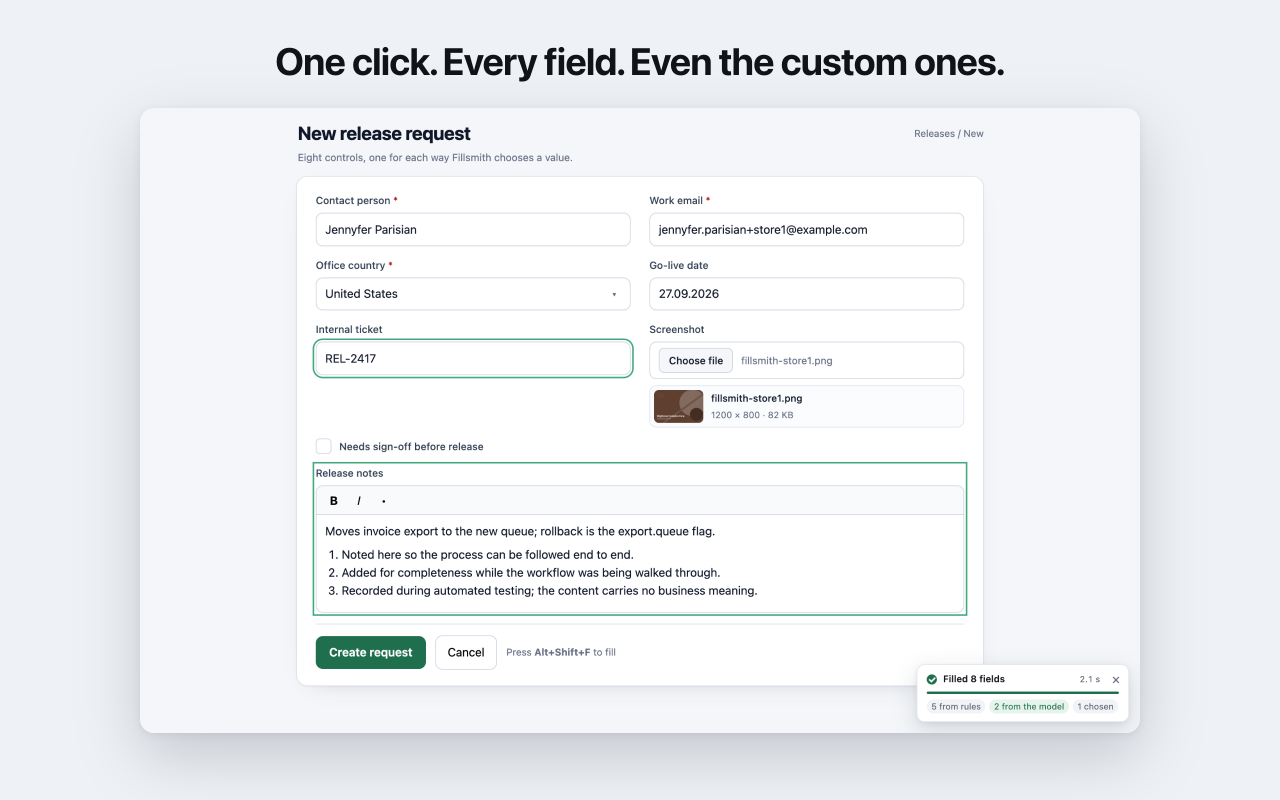
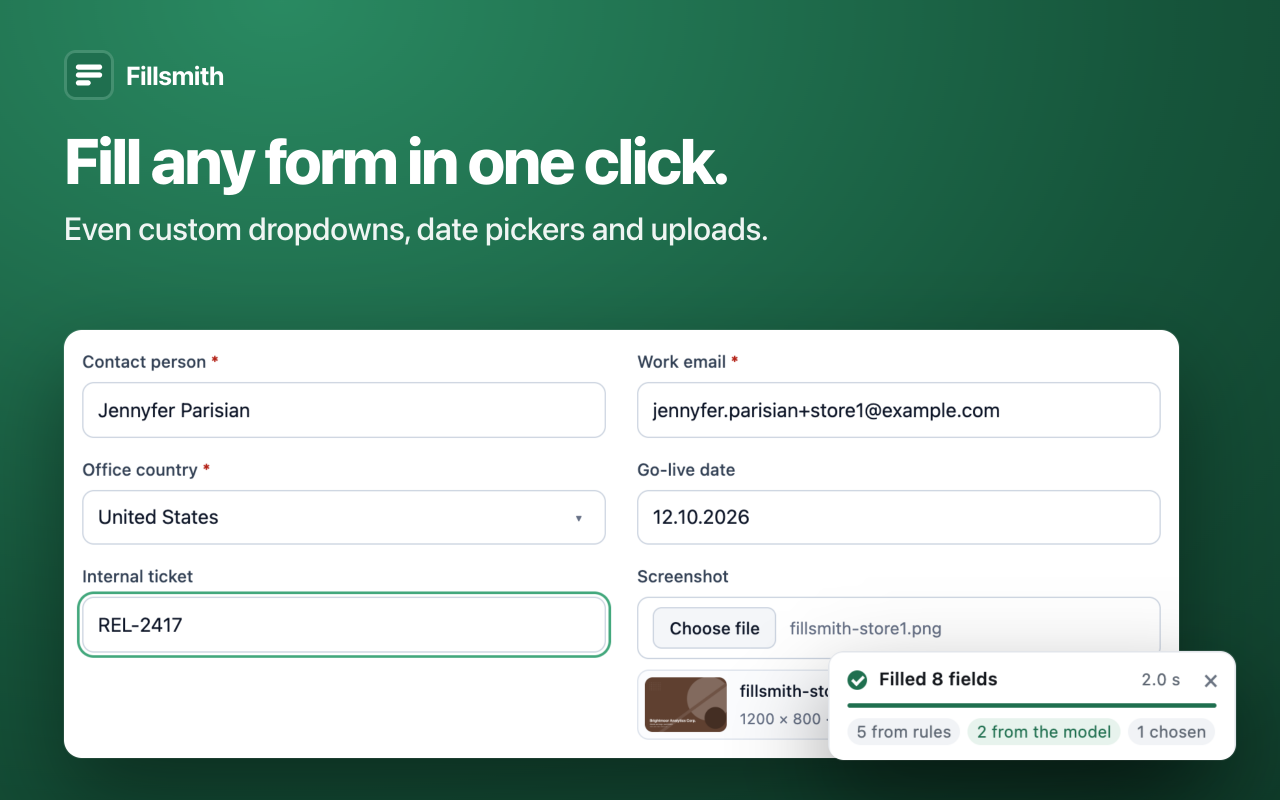
Store pictures that read at the carousel's size
The store shows a frame at about half its size, so a whole screen became a
stamp and only the title survived. Each frame now carries one claim in large
type over the brand's green, and shows a part of the product magnified — the
form's first rows with the card, the fill's list, the decision trail, the
model and the key — flat rather than at an angle. A fifth frame states the
case at a glance in four cards. Files are numbered in carousel order.

diff --git a/docs/store/listing.md b/docs/store/listing.md
@@ -130,15 +130,17 @@ None. All code ships in the package. The optional hosted providers are called wi
 ## Assets
 
 The store takes screenshots and tiles only as 24-bit PNG without an alpha channel, which is what the tool writes.
-All of it comes out of `npm run screenshots`, drawn at twice the size and reduced, so the text holds up wherever the
-store shrinks it. `--dark` renders the same set in the dark theme.
+All of it comes out of `npm run screenshots`, drawn at twice the size and reduced. The carousel shows a frame at
+about half size, so a frame carries one claim in large type and shows a part of the product magnified, never a
+whole screen. `--dark` renders the same set in the dark theme.
 
-| File                                | Size     | What it shows                                                                 |
-|-------------------------------------|----------|-------------------------------------------------------------------------------|
-| `docs/store/1-filled-form.png`      | 1280×800 | A form filled in one press, with the card reporting what came from where      |
-| `docs/store/2-one-press.png`        | 1280×800 | The result: every field and the source of its value                           |
-| `docs/store/3-debug.png`            | 1280×800 | The decision trail: which rule, what the model was asked, where the time went |
-| `docs/store/4-settings.png`         | 1280×800 | On-device by default, the key optional, the network optional                  |
-| `docs/store/5-promo-440x280.png`    | 440×280  | The small promo tile: the mark and the one line                               |
-| `docs/store/6-marquee-1400x560.png` | 1400×560 | The marquee, shown when the store features it: the claim beside the form      |
-| `docs/store-icon128.png`            | 128×128  | The listing icon — the mark inside the store's 16 px of padding               |
+| File                              | Size     | What it shows                                                                                  |
+|-----------------------------------|----------|------------------------------------------------------------------------------------------------|
+| `docs/store/1-filled-form.png`    | 1280×800 | The claim across the top, the form's first rows filled, and the card saying what one press did |
+| `docs/store/2-features.png`       | 1280×800 | The case at a glance: four claims, a title and one line each                                   |
+| `docs/store/3-one-person.png`     | 1280×800 | The popup's list of every field and where its value came from                                  |
+| `docs/store/4-debug.png`          | 1280×800 | The decision trail: the seed, where the time went, what the model answered                     |
+| `docs/store/5-ai-free.png`        | 1280×800 | The model ready on the device, the API key optional                                            |
+| `docs/store/promo-440x280.png`    | 440×280  | The small promo tile: the mark and the one line                                                |
+| `docs/store/marquee-1400x560.png` | 1400×560 | The marquee, shown when the store features it: the claim beside the form                       |
+| `docs/store-icon128.png`          | 128×128  | The listing icon — the mark inside the store's 16 px of padding                                |
